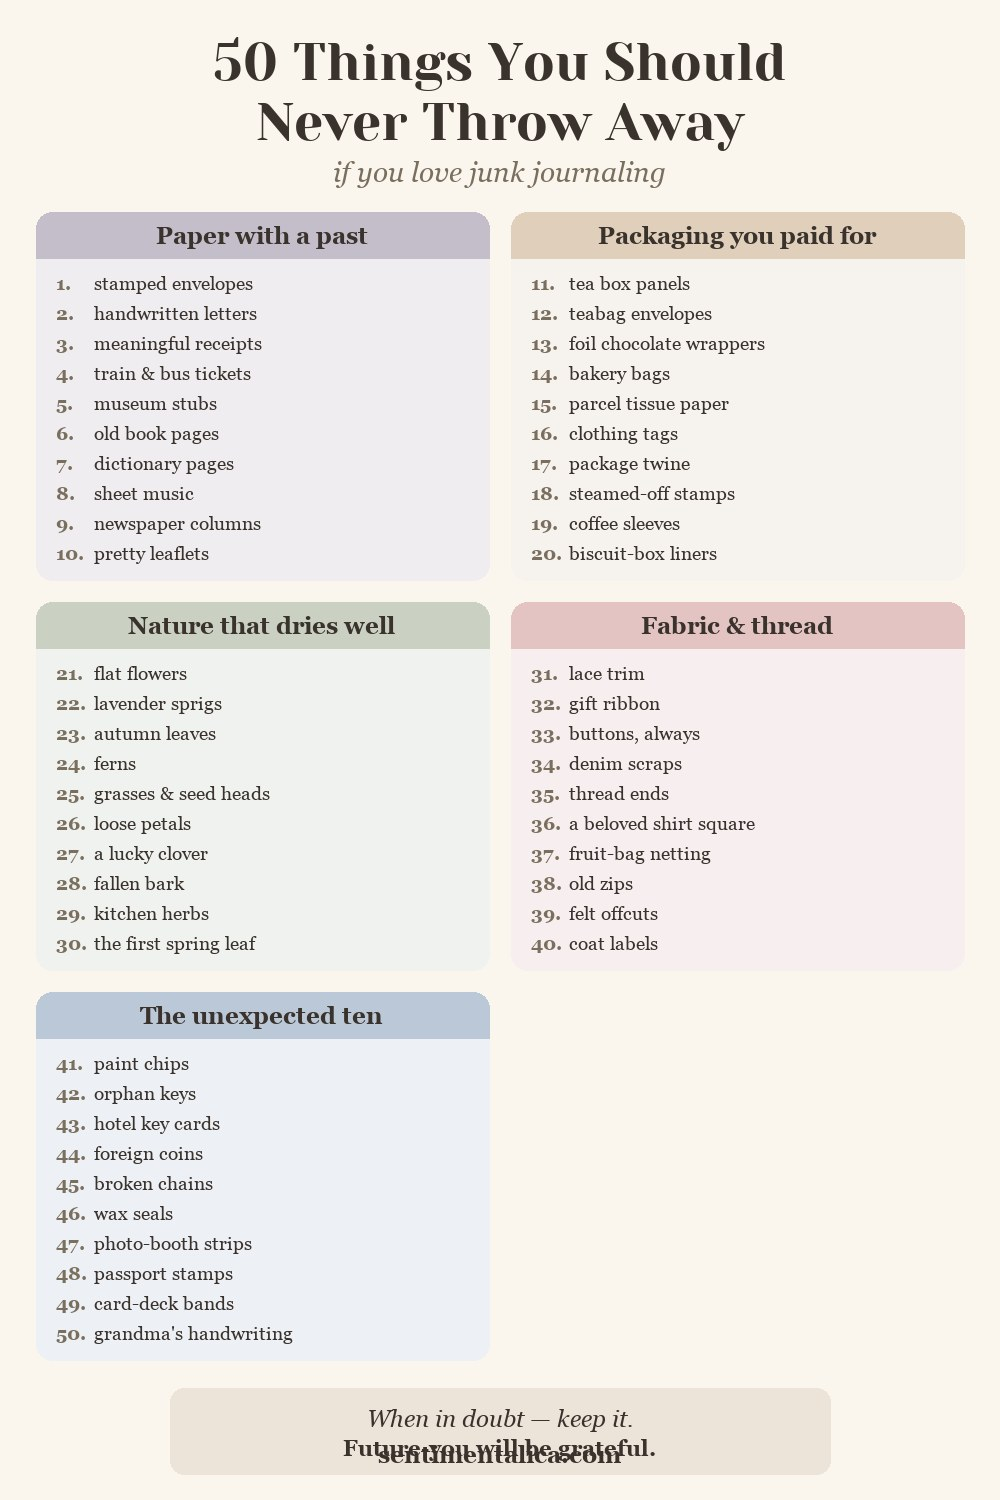
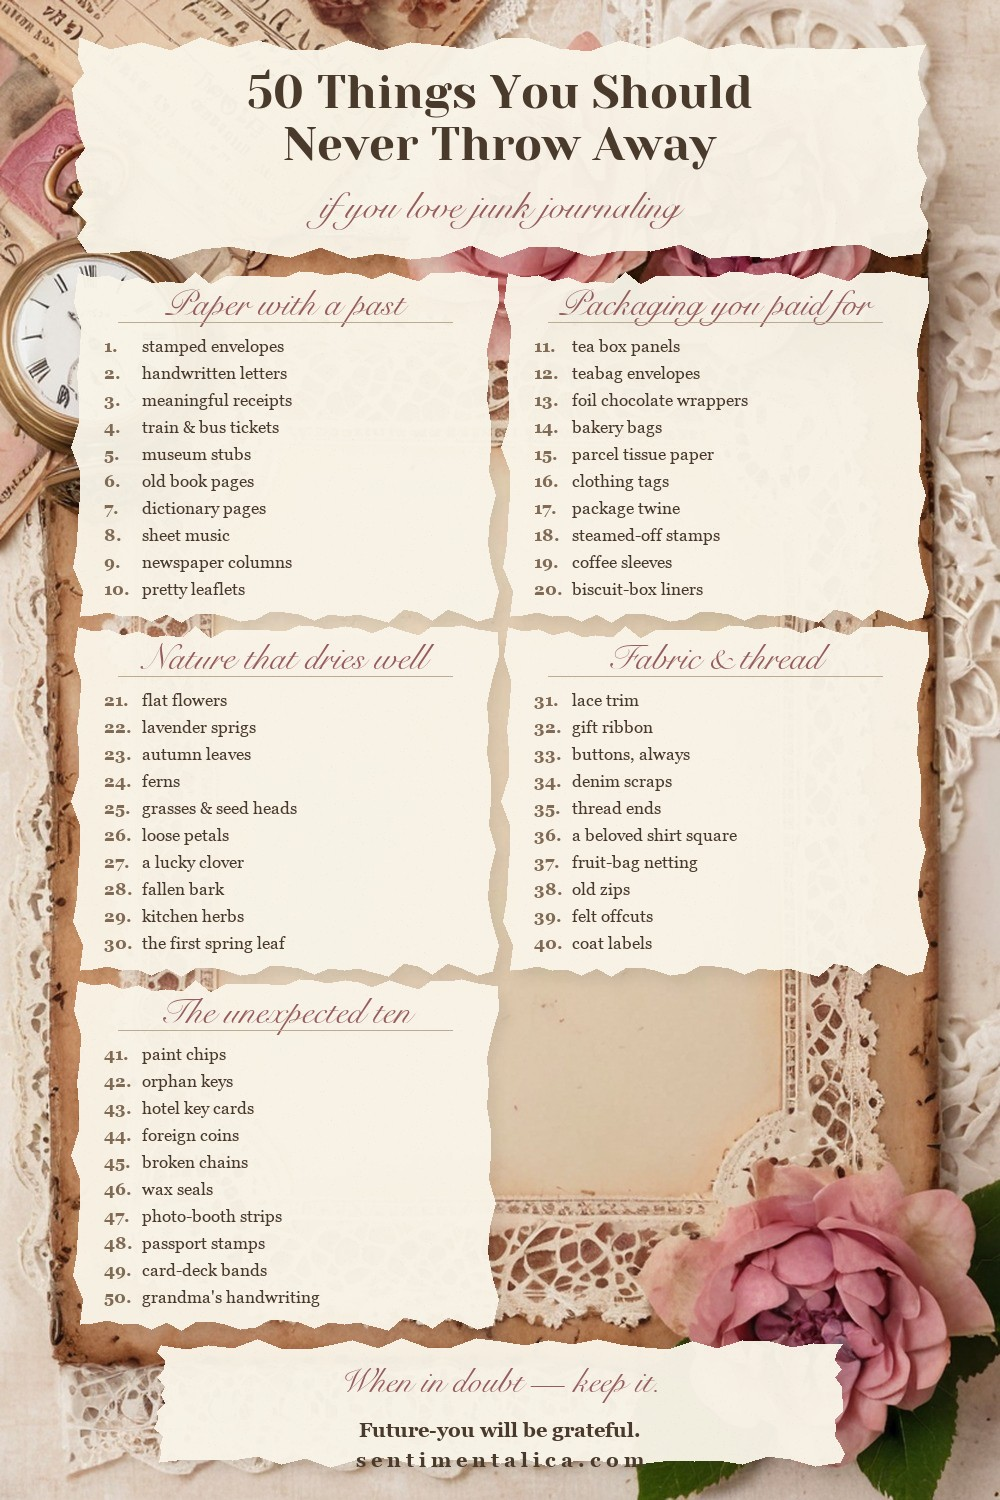
feat(infographic): v2 in Ksenia's reference style — SD ephemera-paper canvas, torn panels, script type
Root-cause fix after her rejection of v1 (flat 'PowerPoint' panels): the
canvas is now an SD-generated aged-paper sheet with lace/roses/pocket-watch
ephemera borders; panels are torn paper with fibre noise and soft shadows;
category headers in Snell Roundhand script; vintage serif items. Also:
50-things article cleaned — random kit pages removed (neutral articles =
pure value; every image must illustrate its adjacent paragraph; products
end-only), rule fixed in runbooks. Process fix: render -> image-critic pass
BEFORE shipping (two geometry defects caught and fixed in-house).

diff --git a/public/blog/50-things-you-should-never-throw-away-if-you-junk-journal.html b/public/blog/50-things-you-should-never-throw-away-if-you-junk-journal.html
@@ -69,7 +69,6 @@
 
 <p>None of these are rare — that is the point. They are <em>yours</em>. A tram ticket glued beside a painted page turns decoration into memory, and no one else on earth can make that page.</p>
 
-<img src="img/50-things-you-should-never-throw-away-if-you-junk-journal/kit-silver.jpg" alt="a printable page from the Silver Vow collection layered like found paper">
 
 <h2>Packaging you paid for anyway</h2>
 
@@ -103,7 +102,6 @@
   <li>The first tiny leaf of spring</li>
 </ol>
 
-<img src="img/50-things-you-should-never-throw-away-if-you-junk-journal/kit-whisker.jpg" alt="a soft floral printable page from the Whisker Bloom collection">
 
 <h2>Fabric, thread and soft things</h2>
 
@@ -135,15 +133,13 @@
   <li>Anything with your grandmother's handwriting on it. Especially that</li>
 </ol>
 
-<img src="img/50-things-you-should-never-throw-away-if-you-junk-journal/kit-dog.jpg" alt="a vintage printable page from the Dog Days collection">
 
 <h2>And when the shoebox is full</h2>
 
-<p>Found things give a journal its soul; printable pages give it its backbone. The trick is the mix — real ticket, painted paper, pressed flower, all in one spread. If your found-paper box is rich but your base papers are thin, that is exactly what our printable collections are for:</p>
+<p>Found things give a journal its soul — and if one day your shoebox is rich but your base papers are thin, printable pages are the quiet backbone that holds it all. That part, when you need it, lives here:</p>
 
 <div class="etsy-products" data-ids="4520385002,4523656176,4516819608" aria-busy="true"></div>
 
-<img src="img/50-things-you-should-never-throw-away-if-you-junk-journal/kit-vivid.jpg" alt="a colorful printable page from the Vivid Medley collection">
 
 <p>Print a few pages tonight, open the shoebox, and let the first spread argue with itself a little. That is how the good ones start.</p>
 

diff --git a/tools/render_list_infographic.py b/tools/render_list_infographic.py
@@ -1,78 +1,112 @@
 #!/usr/bin/env python3
-"""Categorized-list infographic (Ksenia's ref: '50 things to do in a journal').
-A full pin-image devoted to the article's list — saved by thousands, links to
-the article where each item is expanded.
+"""Categorized-list infographic v2 — Ksenia's reference style:
+SD-generated aged-paper sheet with ephemera borders as the CANVAS, torn-paper
+panels with soft shadows, vintage + script typography. Not PowerPoint.
 
-Usage: python3 tools/render_list_infographic.py <spec.json> <out.jpg>
-spec: {"title","subtitle","plaque","categories":[{"name","color":"#hex","items":[...]}]}
+Usage: python3 tools/render_list_infographic.py <spec.json> <out.jpg> [--bg bg.jpg]
 """
 import json
+import random
 import sys
-from PIL import Image, ImageDraw, ImageFont
+from PIL import Image, ImageDraw, ImageFilter, ImageFont
 
 W, H = 1000, 1500
-CREAM = (250, 246, 238); INK = (58, 50, 44); MUTED = (122, 111, 94)
+INK = (74, 58, 44); MUTED = (128, 106, 84); ROSE = (150, 92, 92)
 YES = "/Users/kseniateter/sentimentalica-pipeline/config/fonts/YesevaOne-Regular.ttf"
 GEO = "/System/Library/Fonts/Supplemental/Georgia.ttf"
 GEO_B = "/System/Library/Fonts/Supplemental/Georgia Bold.ttf"
-GEO_I = "/System/Library/Fonts/Supplemental/Georgia Italic.ttf"
+SNELL = "/System/Library/Fonts/Supplemental/SnellRoundhand.ttc"
 F = lambda p, s: ImageFont.truetype(p, s)
 
 
-def tint(hexv, f=0.85):
-    h = hexv.lstrip("#")
-    r, g, b = (int(h[i:i+2], 16) for i in (0, 2, 4))
-    return tuple(int(c + (255 - c) * f) for c in (r, g, b))
+def torn_panel(w, h, fill=(249, 244, 232), jag=7):
+    """Paper panel with torn (jittered) edges + subtle fibre noise."""
+    random.seed(w * h)
+    pad = jag + 4
+    p = Image.new("RGBA", (w + pad * 2, h + pad * 2), (0, 0, 0, 0))
+    d = ImageDraw.Draw(p)
+    pts = []
+    steps = 28
+    for i in range(steps):        # top
+        pts.append((pad + w * i / steps + random.uniform(-2, 2), pad + random.uniform(-jag, jag)))
+    for i in range(steps // 2):   # right
+        pts.append((pad + w + random.uniform(-jag, jag), pad + h * i / (steps // 2)))
+    for i in range(steps):        # bottom
+        pts.append((pad + w * (1 - i / steps), pad + h + random.uniform(-jag, jag)))
+    for i in range(steps // 2):   # left
+        pts.append((pad + random.uniform(-jag, jag), pad + h * (1 - i / (steps // 2))))
+    d.polygon(pts, fill=fill + (245,))
+    # fibre noise
+    npx = p.load()
+    for _ in range(w * h // 60):
+        x = random.randint(pad, pad + w - 1); y = random.randint(pad, pad + h - 1)
+        r, g, b, a = npx[x, y]
+        if a: npx[x, y] = (r - 6, g - 6, b - 8, a)
+    return p, pad
+
+
+def paste_torn(cv, panel, pad, xy):
+    sh = Image.new("RGBA", cv.size, (0, 0, 0, 0))
+    a = panel.split()[3].point(lambda v: 70 if v > 0 else 0)
+    s = Image.new("RGBA", panel.size, (60, 45, 30, 0)); s.putalpha(a)
+    sh.paste(s, (xy[0] - pad + 6, xy[1] - pad + 9), s)
+    cv.alpha_composite(sh.filter(ImageFilter.GaussianBlur(6)))
+    cv.alpha_composite(panel, (xy[0] - pad, xy[1] - pad))
 
 
 def main():
     spec = json.loads(open(sys.argv[1]).read())
-    cv = Image.new("RGB", (W, H), CREAM)
-    d = ImageDraw.Draw(cv)
-    # Title auto-wraps to fit the width (2 lines max)
-    title = spec["title"]
-    font_t = F(YES, 52)
-    if d.textlength(title, font=font_t) > W - 80:
-        words = title.split()
-        best = min(range(1, len(words)),
-                   key=lambda i: abs(d.textlength(" ".join(words[:i]), font=font_t)
-                                     - d.textlength(" ".join(words[i:]), font=font_t)))
-        l1, l2 = " ".join(words[:best]), " ".join(words[best:])
-        d.text((W//2, 62), l1, font=font_t, fill=INK, anchor="mm")
-        d.text((W//2, 122), l2, font=font_t, fill=INK, anchor="mm")
-        sub_y = 172
+    bg_path = sys.argv[sys.argv.index("--bg") + 1] if "--bg" in sys.argv else None
+    if bg_path:
+        cv = Image.open(bg_path).convert("RGBA").resize((W, H), Image.LANCZOS)
     else:
-        d.text((W//2, 78), title, font=font_t, fill=INK, anchor="mm")
-        sub_y = 138
-    d.text((W//2, sub_y), spec["subtitle"], font=F(GEO_I, 28), fill=MUTED, anchor="mm")
+        cv = Image.new("RGBA", (W, H), (243, 234, 216, 255))
+    d = ImageDraw.Draw(cv)
 
+    # Title on its own torn banner
+    tp, pad = torn_panel(840, 208, jag=8)
+    paste_torn(cv, tp, pad, (80, 44))
+    d = ImageDraw.Draw(cv)
+    title = spec["title"]; font_t = F(YES, 46)
+    words = title.split()
+    best = min(range(1, len(words)),
+               key=lambda i: abs(d.textlength(" ".join(words[:i]), font=font_t)
+                                 - d.textlength(" ".join(words[i:]), font=font_t)))
+    d.text((W//2, 92), " ".join(words[:best]), font=font_t, fill=INK, anchor="mm")
+    d.text((W//2, 144), " ".join(words[best:]), font=font_t, fill=INK, anchor="mm")
+    d.text((W//2, 206), spec["subtitle"], font=F(SNELL, 38), fill=ROSE, anchor="mm")
+
+    # Category panels: torn paper, script headers, serif items
     cats = spec["categories"]
-    pad, gap = 36, 22
-    col_w = (W - pad*2 - gap) // 2
-    x_positions, y = [pad, pad + col_w + gap], [212, 212]
-    for i, cat in enumerate(cats):
-        col = 0 if y[0] <= y[1] else 1
-        x, yy = x_positions[col], y[col]
-        header_h, line_h = 46, 30
-        ph = header_h + len(cat["items"]) * line_h + 22
-        base = tint(cat["color"], 0.88)
-        d.rounded_rectangle([x, yy, x + col_w, yy + ph], 16, fill=base)
-        d.rounded_rectangle([x, yy, x + col_w, yy + header_h], 16, fill=tint(cat["color"], 0.55))
-        d.rectangle([x, yy + header_h - 16, x + col_w, yy + header_h], fill=tint(cat["color"], 0.55))
-        d.text((x + col_w//2, yy + header_h//2), cat["name"], font=F(GEO_B, 24), fill=INK, anchor="mm")
-        ty = yy + header_h + 14
+    margin, gap = 78, 16
+    col_w = (W - margin * 2 - gap) // 2
+    xs, ys = [margin, margin + col_w + gap], [278, 278]
+    for cat in cats:
+        col = 0 if ys[0] <= ys[1] else 1
+        x, y = xs[col], ys[col]
+        head_h, line_h = 50, 27
+        ph = head_h + len(cat["items"]) * line_h + 18
+        panel, pad = torn_panel(col_w, ph)
+        paste_torn(cv, panel, pad, (x, y))
+        d = ImageDraw.Draw(cv)
+        d.text((x + col_w // 2, y + 26), cat["name"], font=F(SNELL, 36), fill=ROSE, anchor="mm")
+        d.line([x + 40, y + head_h - 6, x + col_w - 40, y + head_h - 6], fill=(190, 170, 145), width=1)
+        ty = y + head_h + 8
         for n, it in cat["items"]:
-            d.text((x + 20, ty), f"{n}.", font=F(GEO_B, 19), fill=MUTED)
-            d.text((x + 58, ty), it, font=F(GEO, 19), fill=INK)
+            d.text((x + 26, ty), f"{n}.", font=F(GEO_B, 17), fill=MUTED)
+            d.text((x + 64, ty), it, font=F(GEO, 17), fill=INK)
             ty += line_h
-        y[col] = yy + ph + gap
+        ys[col] = y + ph + gap
 
-    yb = max(y) + 6
-    d.rounded_rectangle([W//2 - 330, yb, W//2 + 330, yb + 86], 14, fill=tint("#b8956a", 0.75))
-    d.text((W//2, yb + 30), spec["plaque"], font=F(GEO_I, 24), fill=INK, anchor="mm")
-    d.text((W//2, yb + 60), "Future-you will be grateful.", font=F(GEO_B, 22), fill=INK, anchor="mm")
-    d.text((W//2, H - 46), "sentimentalica.com", font=F(GEO_B, 24), fill=INK, anchor="mm")
-    cv.save(sys.argv[2], "JPEG", quality=88, optimize=True)
+    # Closing plaque
+    yb = max(ys) + 4
+    plq, pad = torn_panel(680, 118, jag=6)
+    paste_torn(cv, plq, pad, ((W - 680) // 2, yb))
+    d = ImageDraw.Draw(cv)
+    d.text((W//2, yb + 38), spec["plaque"], font=F(SNELL, 34), fill=ROSE, anchor="mm")
+    d.text((W//2, yb + 86), "Future-you will be grateful.", font=F(GEO_B, 20), fill=INK, anchor="mm")
+    d.text((W//2, H - 40), "s e n t i m e n t a l i c a . c o m", font=F(GEO_B, 20), fill=INK, anchor="mm")
+    cv.convert("RGB").save(sys.argv[2], "JPEG", quality=90, optimize=True)
     print(sys.argv[2])
 
 